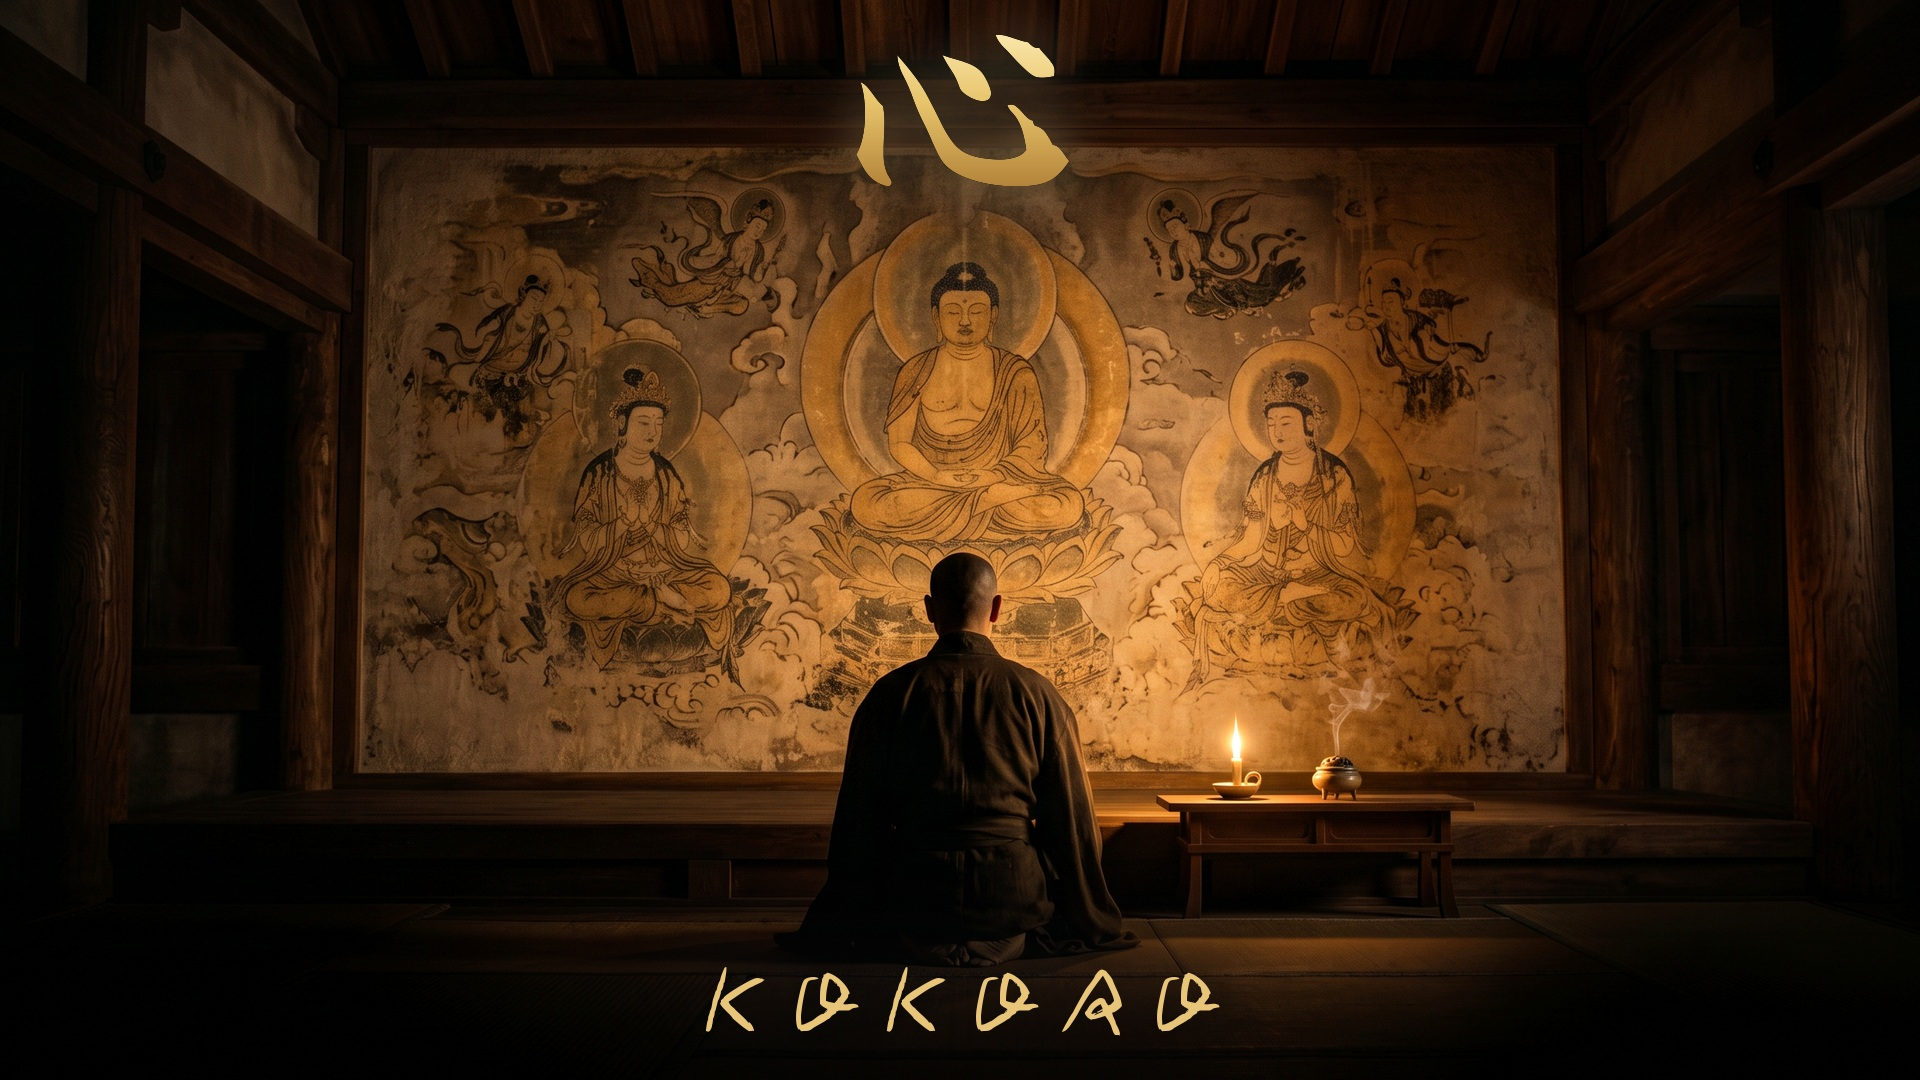
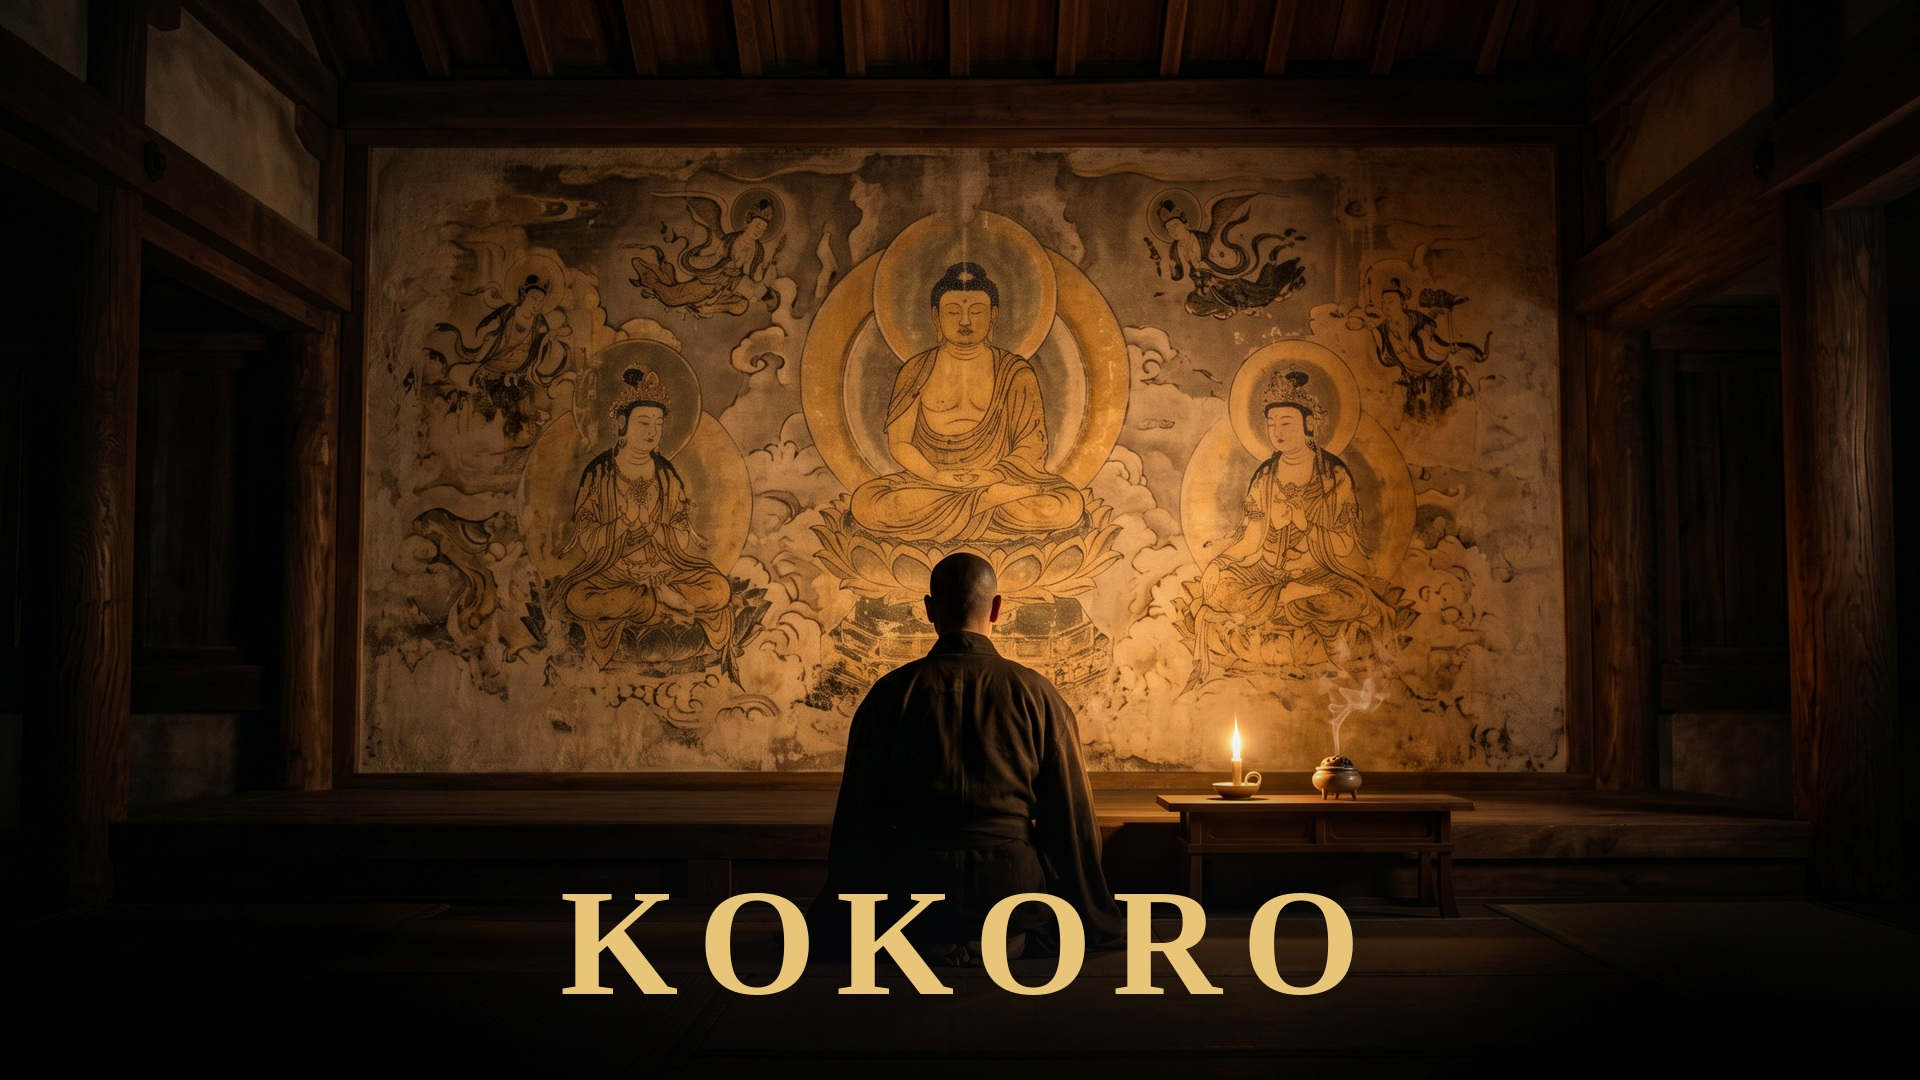
KOKORO thumbnail: drop kanji, large legible KOKORO (Liberation Serif Bold) low centre

Changed region(s): [[0.2812, 0.825, 0.75, 0.9472], [0.4375, 0.0306, 0.5625, 0.1833], [0.5625, 0.7028, 0.7188, 0.7944]]

diff --git a/stillwave/assets/kokoro-compose-thumb.py b/stillwave/assets/kokoro-compose-thumb.py
@@ -12,6 +12,7 @@ from PIL import Image, ImageDraw, ImageFont, ImageFilter, ImageEnhance
 
 SRC = "/home/user/dan-documents/stillwave/assets/kokoro-2h-source.jpg"
 KANJI = "/home/user/dan-documents/stillwave/assets/fonts/YujiBoku-Regular.ttf"
+SERIF = "/usr/share/fonts/truetype/liberation/LiberationSerif-Bold.ttf"
 OUT = "/home/user/dan-documents/stillwave/assets/kokoro-2h-thumb.jpg"
 W, H = 1920, 1080
 CREAM = (245, 234, 210, 255)
@@ -81,8 +82,8 @@ def sumi(im, chars, size, cx_centre, y, pitch, halo=42):
     im.alpha_composite(Image.composite(grad, Image.new("RGBA", (W, H), (0, 0, 0, 0)), mask))
 
 
-def spaced_centre(im, text, size, cx_centre, y, fill=CREAM, ls=16):
-    f = ImageFont.truetype(KANJI, size)
+def spaced_centre(im, text, size, cx_centre, y, fill=CREAM, ls=16, font=KANJI):
+    f = ImageFont.truetype(font, size)
     d = ImageDraw.Draw(im)
     widths = [d.textlength(c, font=f) for c in text]
     total = sum(widths) + ls * (len(text) - 1)
@@ -99,8 +100,7 @@ def spaced_centre(im, text, size, cx_centre, y, fill=CREAM, ls=16):
 
 im = base()
 CENTRE = 960
-# single 心 high, above the Buddha's halo — never over the sacred face
-sumi(im, ["心"], 250, CENTRE, 34, pitch=0)
-spaced_centre(im, "KOKORO", 88, CENTRE, 928, fill=GOLD, ls=20)  # low, on the monk's dark robe
+# user pref: no kanji — just KOKORO large & legible (Liberation Serif Bold), low centre
+spaced_centre(im, "KOKORO", 152, CENTRE, 858, fill=GOLD, ls=20, font=SERIF)
 im.convert("RGB").save(OUT, quality=94)
 print("saved", OUT)

diff --git a/stillwave/scripts/kokoro-2h.md b/stillwave/scripts/kokoro-2h.md
@@ -348,8 +348,7 @@ stillwave, japanese zen music, meditation music, zen music, healing music, relax
 ## §10 — Thumbnail
 
 - `kokoro-2h-thumb.jpg` — built from the hero via `kokoro-compose-thumb.py`.
-- **心** molten gold, upper-centre **above the Buddha's halo** (sacred face never covered) + dark halo for legibility.
-- **KOKORO** gold calligraphic (brush font), low, centred on the monk's dark robe with a soft scrim.
+- **User pref (2026-08-07): no kanji.** Just **KOKORO** — large gold Liberation Serif Bold (legible at size — the brush font turned to mush at that scale), low, centred on the monk's dark robe with a soft scrim.
 - Bottom-right corner dark → logo in post.
 
 ---
